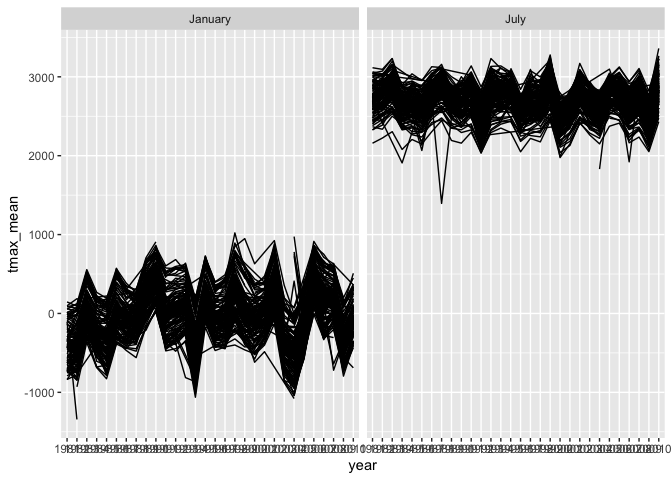
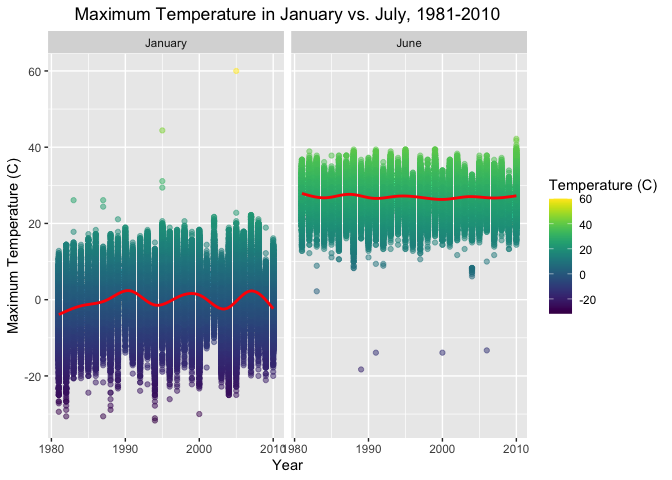
Problem 3 - troubleshooting why faceting graph wasn't working; Completed Q3.2

diff --git a/p8105_hw3_els2250.md b/p8105_hw3_els2250.md
@@ -294,22 +294,12 @@ temperature (tenths of degrees C)
 ny_noaa_df <- ny_noaa %>% 
   janitor::clean_names() %>% 
   separate(col = date, into = c('year', 'month', 'day'), sep = '-') %>% 
-  mutate(month = recode(month,
-                        '01' = 'January',
-                        '02' = 'February',
-                        '03' = 'March',
-                        '04' = 'April',
-                        '05' = 'May',
-                        '06' = 'June',
-                        '07' = 'July',
-                        '08' = 'August',
-                        '09' = 'September',
-                        '10' = 'October',
-                        '11' = 'November',
-                        '12' = 'December'),
-         prcp = prcp*10,
-         tmax = as.numeric(tmax)*10,
-         tmin = as.numeric(tmin)*10)
+  mutate(year = as.numeric(year),
+         month = as.numeric(month),
+         day = as.numeric(day),
+         prcp = prcp/10,
+         tmax = as.numeric(tmax)/10,
+         tmin = as.numeric(tmin)/10)
 ```
 
 #### *What are the most commonly observed values for snowfall? Why?*
@@ -342,13 +332,39 @@ TO SAY WHY**
 
 ``` r
 ny_noaa_df %>% 
-  group_by(id, year, month) %>% 
-  filter(month == "January" | month == "July") %>% 
-  summarize(tmax_mean = mean(tmax, na.rm = TRUE)) %>% 
-  ggplot(aes(x = year, y = tmax_mean, group = id)) +
-  geom_line() +
-  facet_grid(. ~ month)
-## Warning: Removed 5640 row(s) containing missing values (geom_path).
+  select(id, year, month, tmax) %>% 
+  filter(month == 01 | month == 07) %>% 
+  mutate(month = recode(month,
+                        `01` = "January",
+                        `07` = "June")) %>% 
+  ggplot(aes(x = year, y = tmax)) +
+  geom_point(aes(color = tmax), alpha = 0.5) +
+  geom_smooth(aes(x = year, y = tmax), se = FALSE, colour = "red") + 
+  facet_grid(. ~ month) +
+  labs(
+    title = "Maximum Temperature in January vs. July, 1981-2010",
+    x = "Year",
+    y = "Maximum Temperature (C)"
+  ) + 
+  theme(plot.title = element_text(hjust = 0.5)) +
+  viridis::scale_color_viridis(
+    name = "Temperature (C)"
+  )
+## Warning: Removed 190331 rows containing non-finite values (stat_smooth).
+## Warning: Removed 190331 rows containing missing values (geom_point).
 ```
 
 ![](p8105_hw3_els2250_files/figure-gfm/unnamed-chunk-14-1.png)<!-- -->
+
+While June appears to have a consistent average `tmax` around 30 deg C
+each year between 1980 and 2010, the average `tmax` values in January
+(starting in 1990) appear to ebb and flow every 5 years. For example,
+average `tmax` in 1990 was around 3 deg C, while the average `tmax` in
+1995 was around -3 deg C. This noticeable deviation from 0 deg C
+continues in the following years as well. Additionally, both maximum
+temperatures recorded in January and June depict a handful of outliers.
+Most notably, in January 2005, there was a recorded maximum value of 60
+deg C. Similarly, in June 1990, there are two recorded maximum values
+around -16 or -17 deg C.
+
+#### *Make a two-panel plot showing (i) tmax vs tmin for the full dataset (note that a scatterplot may not be the best option); and (ii) make a plot showing the distribution of snowfall values greater than 0 and less than 100 separately by year.*
